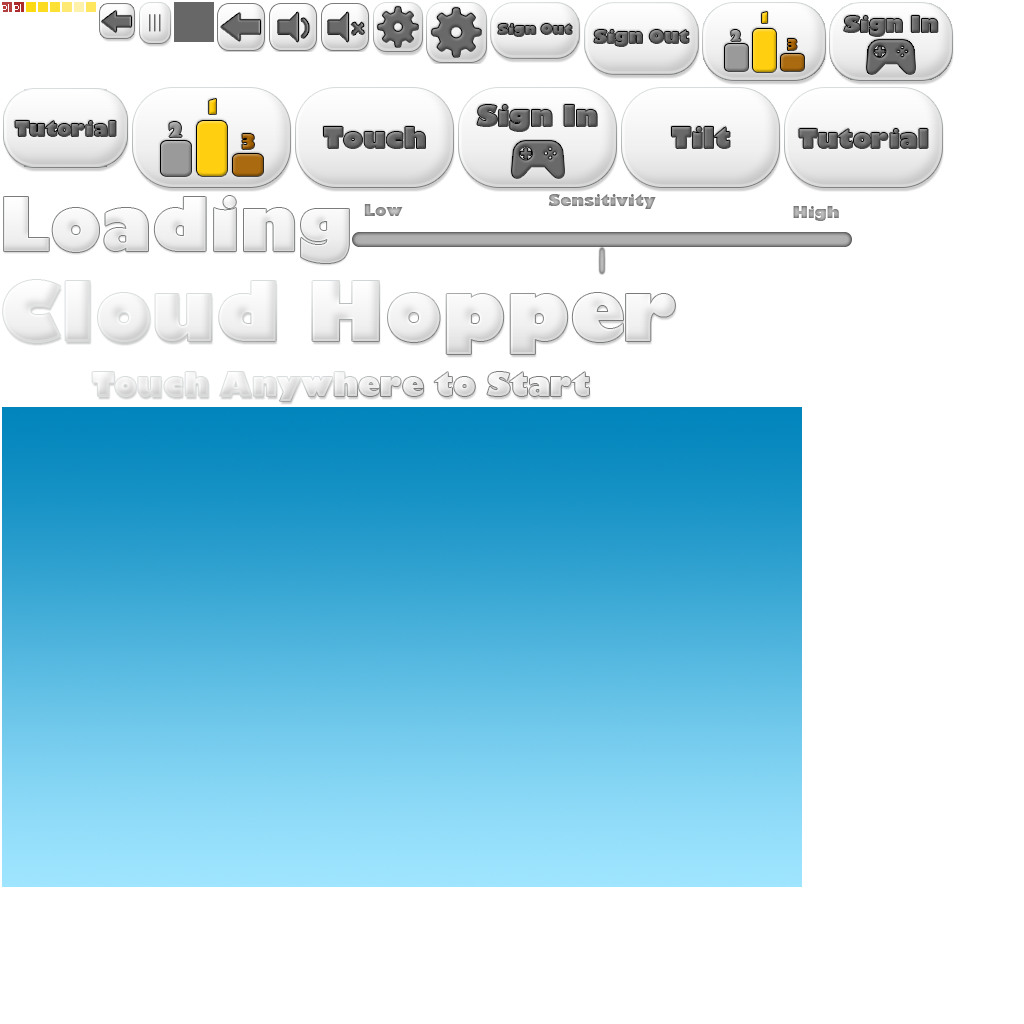
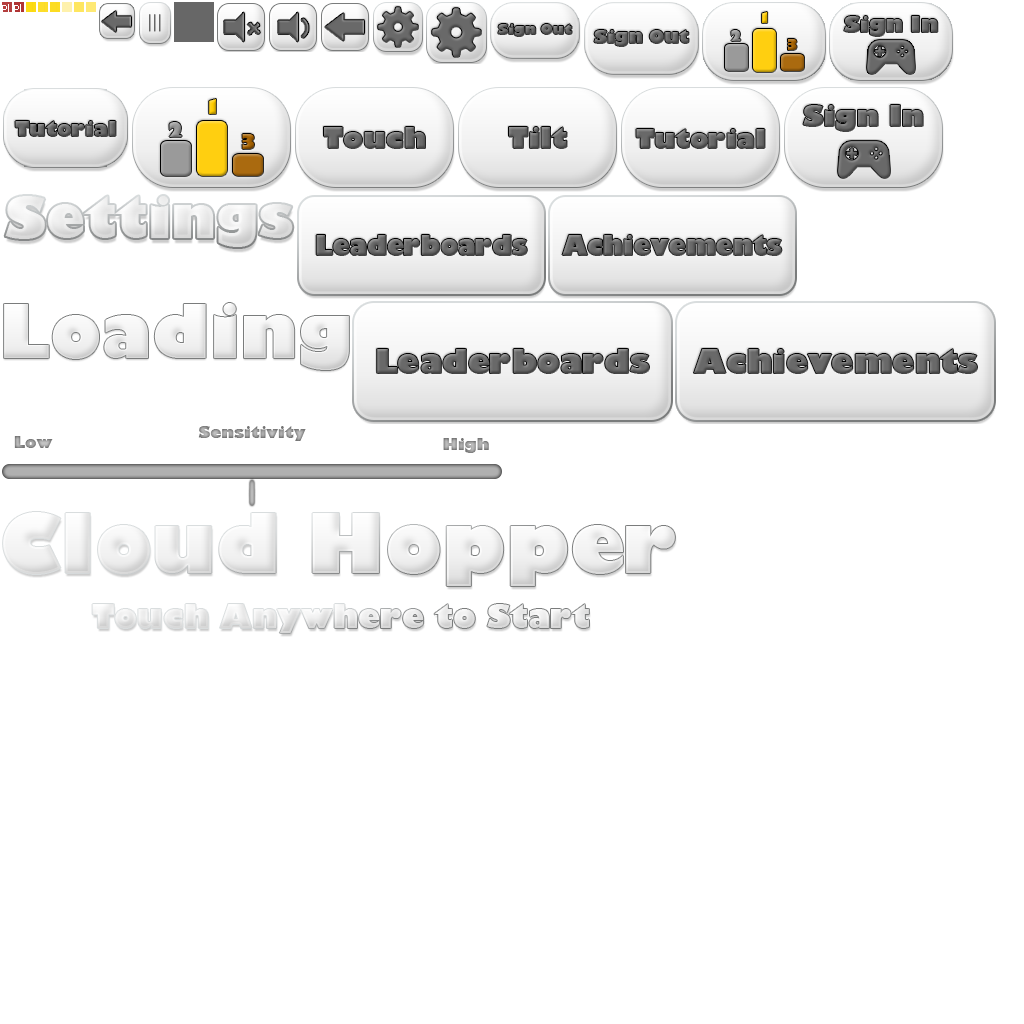
new graphics in part 6 - things are lookin peachyDandy

diff --git a/CloudHopper/src/com/jerhis/cloudgame/MainMenuScreen.java b/CloudHopper/src/com/jerhis/cloudgame/MainMenuScreen.java
@@ -6,6 +6,7 @@ import com.badlogic.gdx.Screen;
 import com.badlogic.gdx.audio.Music;
 import com.badlogic.gdx.graphics.GL10;
 import com.badlogic.gdx.graphics.OrthographicCamera;
+import com.badlogic.gdx.graphics.Texture;
 import com.badlogic.gdx.graphics.g2d.TextureAtlas;
 import com.badlogic.gdx.graphics.g2d.TextureAtlas.AtlasRegion;
 import com.badlogic.gdx.graphics.glutils.ShapeRenderer;
@@ -17,10 +18,11 @@ public class MainMenuScreen implements Screen, InputProcessor {
 	OrthographicCamera camera;
 
 	TextureAtlas textures;
-	AtlasRegion bg, controlTilt, controlTouch, sliderBG, sliderBar, blackOverlay, loading, tutImage,
+    Texture bg;
+	AtlasRegion controlTilt, controlTouch, sliderBG, sliderBar, blackOverlay, loading, tutImage,
             tutImagePushed, musicIm[] = new AtlasRegion[2], gpsButton[] = new AtlasRegion[4],
             settingIm, settingPushed, gpsIm, gpsPushed, playText, backIm, signPushed, signIm,
-            soutIm, soutP, achIm, achP, ledeIm, ledeP;
+            soutIm, soutP, achIm, achP, ledeIm, ledeP, settingsText;
 
     float slider;
     boolean sliderTouch = false, soundOn;
@@ -43,8 +45,10 @@ public class MainMenuScreen implements Screen, InputProcessor {
         shouldPlayTutorial = false;
         shouldReturnToMenu = false;
 
+        bg = new Texture(Gdx.files.internal("plainmenubg.png"));
+
 		textures = new TextureAtlas("menuimages.txt");
-		bg = textures.findRegion("plainmenubg");
+		//bg = textures.findRegion("plainmenubg");
 		controlTilt = textures.findRegion("controltilt");
 		controlTouch = textures.findRegion("controltouch");
         sliderBar = textures.findRegion("sliderbar");
@@ -65,12 +69,12 @@ public class MainMenuScreen implements Screen, InputProcessor {
         playText = textures.findRegion("menubg2");
         soutIm = textures.findRegion("signout");
         soutP = textures.findRegion("pushedsignout");
-        ledeIm = textures.findRegion("signout");
-        ledeP = textures.findRegion("pushedsignout");
-        achIm = textures.findRegion("signout");
-        achP = textures.findRegion("pushedsignout");
+        ledeIm = textures.findRegion("leaderboardsbutton");
+        ledeP = textures.findRegion("pushedleaderboardsbutton");
+        achIm = textures.findRegion("achievements");
+        achP = textures.findRegion("pushedachievements");
+        settingsText = textures.findRegion("settingstext");
 
-        //                             sign in     si pushed      gps         gpspushed
         gpsButton = new AtlasRegion[] {signIm, signPushed, gpsIm, gpsPushed};
         mainButtons = new ButtonSet();
         mainButtons.addButton(settingIm, settingPushed, 725, 415);
@@ -81,8 +85,8 @@ public class MainMenuScreen implements Screen, InputProcessor {
 
         gpsButtons = new ButtonSet();
         gpsButtons.addButton(achIm, achP, 400, 300);
-        gpsButtons.addButton(ledeIm, ledeP, 400, 200);
-        gpsButtons.addButton(soutIm, soutP, 400, 100);
+        gpsButtons.addButton(ledeIm, ledeP, 400, 160);
+        gpsButtons.addButton(soutIm, soutP, 700, 100);
 
         slider = game.slider;
         soundOn = game.sound;
@@ -121,14 +125,15 @@ public class MainMenuScreen implements Screen, InputProcessor {
             //game.font.draw(game.batch, "Back Arrow, 50x50", 20, 460);
             game.batch.draw(backIm, 20,410);
             gpsButtons.draw(game.batch);
-            game.font.draw(game.batch, "You are signed in with Google.", 100, 420);
+            game.font.draw(game.batch, "You are signed in with Google.", 100, 460);
             //game.font.draw(game.batch, "LEaders 300x100", 0, 200);
             //game.font.draw(game.batch, "300x100 Achievements", 0, 300);
             //game.font.draw(game.batch, "150x75 Sign Out", 0, 100);
         }
         else if (stateSettings) {
             game.font.setScale(2);
-            game.font.draw(game.batch, "Settings", 225, 470);
+            //game.font.draw(game.batch, "Settings", 225, 470);
+            game.batch.draw(settingsText, 400-325/2, 395);
             game.font.setScale(1);
             //game.font.draw(game.batch, "Back Arrow, 50x50", 20, 460);
             game.batch.draw(backIm, 20,410);

diff --git a/CloudHopper/src/com/jerhis/cloudgame/MyGdxGame.java b/CloudHopper/src/com/jerhis/cloudgame/MyGdxGame.java
@@ -155,6 +155,11 @@ public class MyGdxGame extends Game {
     }
 
     public int achievement(int k) {
+        if (k == -1) {
+            platformHandeler.achievement(-1);
+            return 0;
+        }
+
         //call for an achievement here tp platformHandler when attained
         if (k >= 10000) platformHandeler.achievement(0);
         if (k >= 25000) platformHandeler.achievement(1);
@@ -164,6 +169,8 @@ public class MyGdxGame extends Game {
 
         platformHandeler.achievement(5);
         platformHandeler.achievement(6);
+
+
 
         return 0;
     }
